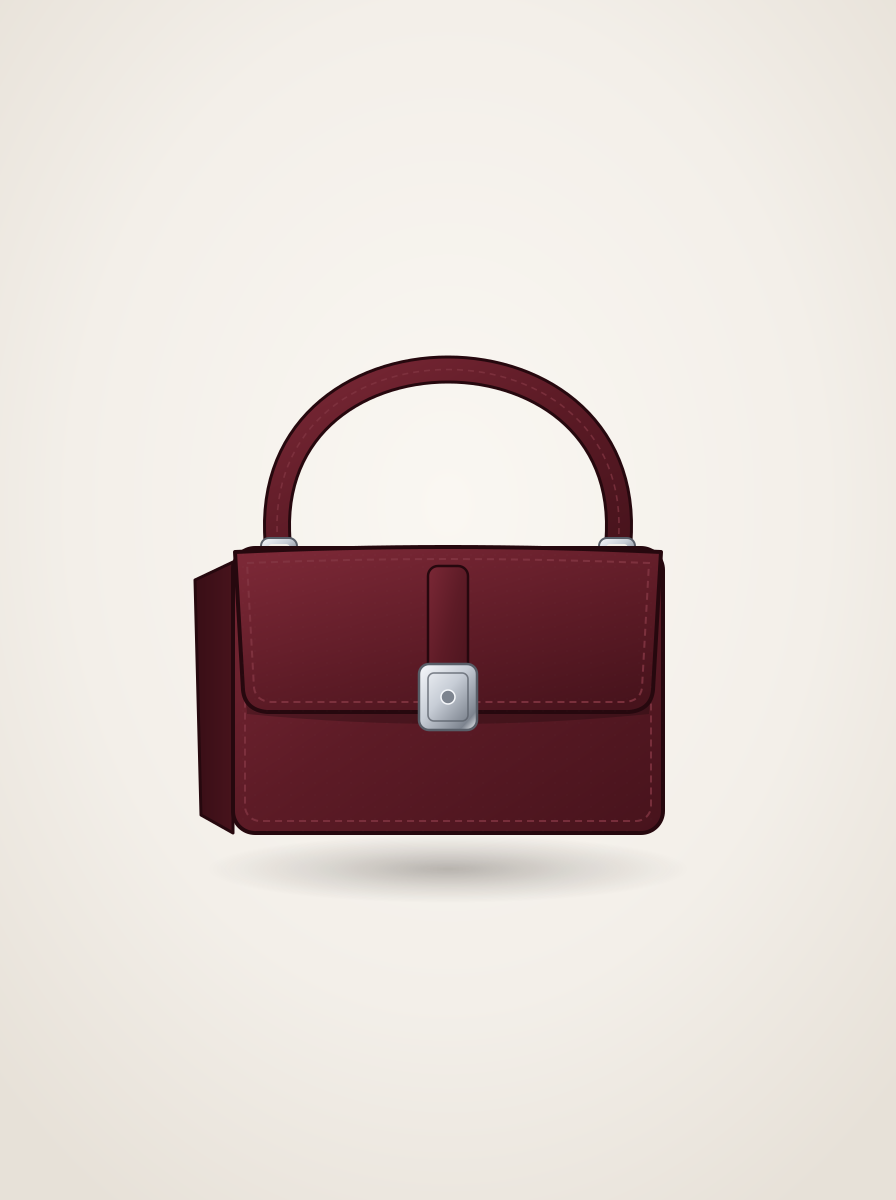
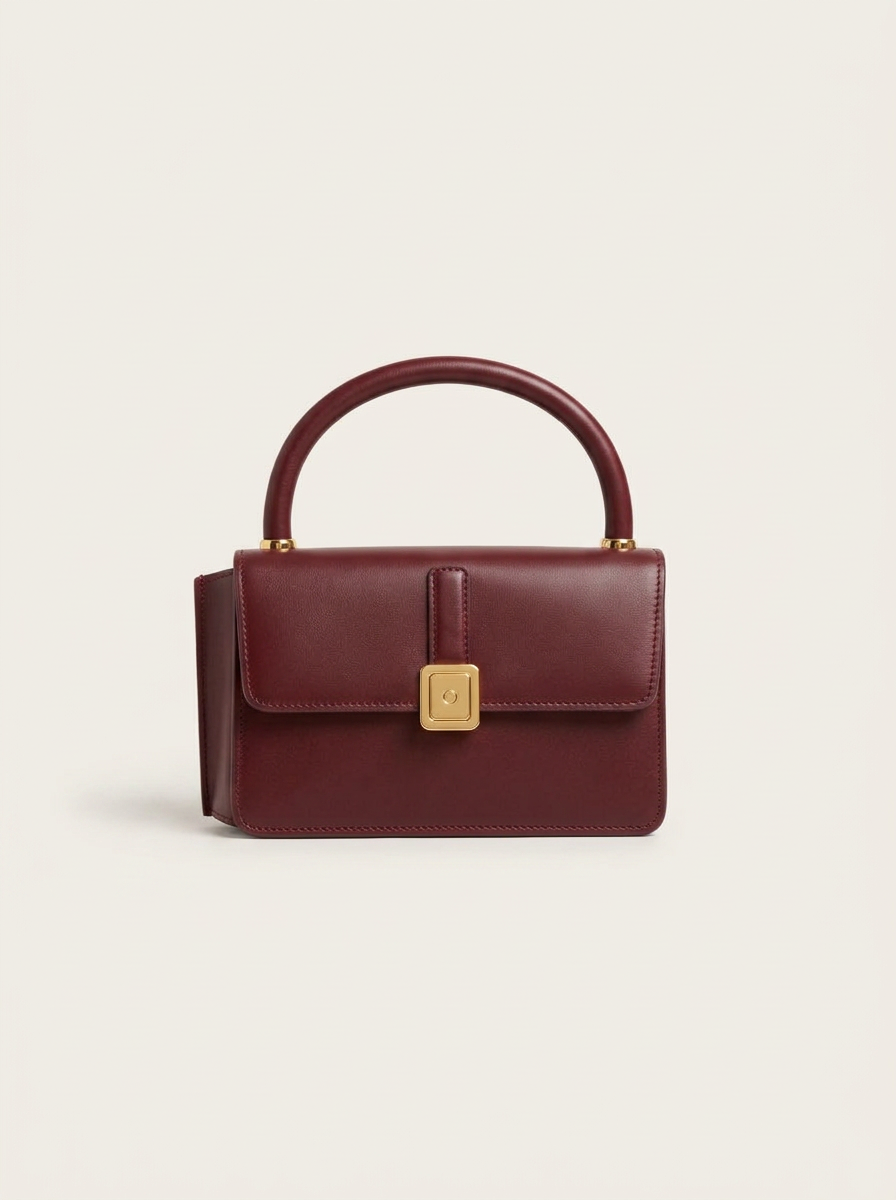
fix(consultation): use photographic handbag as initial design

Changed region(s): [[0.125, 0.2775, 0.75, 0.74]]

diff --git a/tests/consultation-aggregator.test.ts b/tests/consultation-aggregator.test.ts
@@ -19,7 +19,9 @@ import {
 } from "@/lib/agent/consultation-orchestrator";
 import { subscribeConsultationEvents } from "@/lib/server/consultation-events";
 import { createSession } from "@/lib/session/store";
-import { DEFAULT_BAG_DESIGN_STATE } from "@/lib/types";
+import { DEFAULT_BAG_DESIGN_STATE as LIVE_DEFAULT } from "@/lib/types";
+
+const DEFAULT_BAG_DESIGN_STATE = { ...LIVE_DEFAULT, hardwareColor: "silver" };
 import { extractConsultationCandidateDeterministic } from "@/services/gemini/consultation";
 import { buildConsultationJevSignals, evaluateConsultationDeterministic } from "@/services/jev";
 
@@ -114,6 +116,7 @@ test("enqueueConsultationUtterance merges split clauses within debounce window i
 test("irrelevant small talk, audio checks, and retractions resolve to IGNORE with zero suggestions", async () => {
   const session = await createSession(null);
   const started = await startSessionConsultation(session.id, {
+      initialDesignState: { hardwareColor: "silver" },
     meetingUrl: "https://meet.google.com/abc-defg-hij",
     consentConfirmed: true,
   });
@@ -215,6 +218,7 @@ test("full consultation orchestrator lifecycle: start -> ingest -> apply (V2) ->
 
   try {
     const started = await startSessionConsultation(session.id, {
+      initialDesignState: { hardwareColor: "silver" },
       meetingUrl: "https://meet.google.com/abc-defg-hij",
       consentConfirmed: true,
     });

diff --git a/scripts/gen-consultation-seed.ts b/scripts/gen-consultation-seed.ts
@@ -1,29 +1,19 @@
 /**
- * Generates the canonical V1 studio handbag asset for Dressly Live Consultation.
+ * Verifies the checked-in photographic V1 handbag and generates the demo portrait.
  *
  * Run: npm run gen:consultation-seed
  */
-import { mkdir } from "node:fs/promises";
+import { access } from "node:fs/promises";
 import path from "node:path";
-import sharp from "sharp";
 import { ensureDemoCustomerPhoto } from "@/lib/agent/consultation-orchestrator";
-import { renderStudioBagSvg } from "@/lib/catalog/bag-svg";
-import { DEFAULT_BAG_DESIGN_STATE } from "@/lib/types";
 
 const OUT_DIR = path.join(process.cwd(), "public", "catalog");
 const OUT_FILE = path.join(OUT_DIR, "consultation-bag-v1.png");
 
 async function main(): Promise<void> {
-  await mkdir(OUT_DIR, { recursive: true });
-  const svg = renderStudioBagSvg(DEFAULT_BAG_DESIGN_STATE, {
-    versionLabel: "V1 Original",
-  });
-  await sharp(Buffer.from(svg, "utf8"), { density: 200 })
-    .resize(896, 1200, { fit: "cover" })
-    .png({ compressionLevel: 9 })
-    .toFile(OUT_FILE);
+  await access(OUT_FILE);
   const demoPhotoUrl = await ensureDemoCustomerPhoto();
-  console.log("Generated public/catalog/consultation-bag-v1.png (896x1200)");
+  console.log("Verified checked-in photographic handbag public/catalog/consultation-bag-v1.png");
   console.log(`Generated demo customer portrait (${demoPhotoUrl}, 900x1200)`);
 }
 

diff --git a/tests/consultation-reducer.test.ts b/tests/consultation-reducer.test.ts
@@ -51,6 +51,8 @@ test("initConsultation creates V1 Original, logs activity, and places bespoke ba
   assert.equal(con.originalVersionId, v1.id);
   assert.equal(con.currentDesignVersionId, v1.id);
   assert.deepEqual(con.designState, DEFAULT_BAG_DESIGN_STATE);
+  assert.equal(con.designState.hardwareColor, "gold");
+  assert.equal(con.designState.strapType, "top handle");
   assert.equal(con.activity[0]?.text, "Consultation started");
 
   const bagInLook = session.currentLook.accessories.find((a) => a.subcategory === "bag");
@@ -256,6 +258,7 @@ test("addProposedSuggestion deduplicates by fingerprint and actOnProposedSuggest
 test("recordDesignVersion, restoreDesignVersion, attachTryOnToVersion, and endConsultation manage version history", () => {
   let session = createSessionRecord("ses_ver", null);
   session = initConsultation(session, {
+    initialDesignState: { hardwareColor: "silver" },
     meetingUrl: "https://meet.google.com/abc-defg-hij",
     consentConfirmed: true,
   });

diff --git a/components/consultation/ConsultationPanel.tsx b/components/consultation/ConsultationPanel.tsx
@@ -16,7 +16,7 @@ import type {
 } from "@/lib/types";
 
 const FLAGSHIP_SCENARIO_CHIPS = [
-  "I like it, but can we make the hardware gold?",
+  "I like it, but can we make the hardware silver?",
   "That's better. Maybe make it a little smaller.",
   "Could we make the strap longer so I can wear it crossbody?",
   "Can I see how that looks on me?",
@@ -287,7 +287,7 @@ export function ConsultationPanel({
             value={utterance}
             disabled={busy || isEndedOrFailed}
             onChange={(e) => setUtterance(e.target.value)}
-            placeholder="Speak in Meet or type a client request (e.g. 'Make the hardware gold')..."
+            placeholder="Speak in Meet or type a client request (e.g. 'Make the hardware silver')..."
             className="w-full rounded-[3px] border border-chrome/15 bg-night/80 px-3 py-2 text-[13px] text-ink placeholder:text-muted/50 focus:border-accent focus:outline-none disabled:opacity-50"
           />
           <button

diff --git a/tests/consultation-diagnostics.test.ts b/tests/consultation-diagnostics.test.ts
@@ -221,7 +221,7 @@ test("Failure isolation: when bot worker fails (botStatus = FAILED), manual tran
 
   // Manual transcript & suggestion approval still create V2 while botStatus is FAILED
   const turn = await ingestConsultationTranscript(created.id, {
-    text: "I like it, but can we make the hardware gold?",
+    text: "I like it, but can we make the hardware silver?",
     isFinal: true,
     immediate: true,
   });
@@ -232,7 +232,7 @@ test("Failure isolation: when bot worker fails (botStatus = FAILED), manual tran
   });
   assert.ok(applied);
   assert.equal(applied.session.consultation?.versions.length, 2);
-  assert.equal(applied.session.consultation?.versions[1]?.label, "V2 Gold hardware");
+  assert.equal(applied.session.consultation?.versions[1]?.label, "V2 Silver hardware");
 
   // VTO diagnostic still works on V2 while bot is failed
   const vtoDiag = await invokeDiagnostic(created.id, "test_youcam_vto");

diff --git a/lib/types.ts b/lib/types.ts
@@ -266,17 +266,17 @@ export interface BagDesignState {
 
 export const DEFAULT_BAG_DESIGN_STATE: BagDesignState = {
   category: "bag",
-  name: "Atelier Structured Shoulder Bag",
-  silhouette: "structured rectangular shoulder bag",
+  name: "Atelier Structured Top-Handle Bag",
+  silhouette: "structured rectangular top-handle bag",
   size: "medium",
   primaryColor: "burgundy",
   secondaryColor: "tonal burgundy edge paint",
   material: "full-grain calfskin leather",
   texture: "smooth",
-  hardwareColor: "silver",
+  hardwareColor: "gold",
   hardwareStyle: "minimal geometric clasp",
-  strapType: "shoulder",
-  strapLength: "standard shoulder drop",
+  strapType: "top handle",
+  strapLength: "short top handle",
   closure: "front flap with magnetic clasp",
   structure: "rigid box-gusset construction",
   pattern: "solid",

diff --git a/tests/consultation-orchestrator.test.ts b/tests/consultation-orchestrator.test.ts
@@ -25,6 +25,7 @@ test("Flagship 4-step handbag consultation scenario (V1 -> V2 -> V3 -> V4 -> You
   try {
     // 1. Start consultation: V1 Original (medium burgundy leather shoulder bag, silver hardware, shoulder strap)
     const started = await startSessionConsultation(created.id, {
+      initialDesignState: { hardwareColor: "silver", strapType: "shoulder", strapLength: "standard shoulder drop" },
       meetingUrl: "https://meet.google.com/abc-defg-hij",
       consentConfirmed: true,
     });

diff --git a/tests/consultation-prompt.test.ts b/tests/consultation-prompt.test.ts
@@ -12,10 +12,12 @@ import {
 } from "@/lib/session/reducer";
 import { persist } from "@/lib/session/store";
 import {
-  DEFAULT_BAG_DESIGN_STATE,
+  DEFAULT_BAG_DESIGN_STATE as LIVE_DEFAULT,
   DESIGN_FIELD_KEYS,
   type DesignFieldDiff,
 } from "@/lib/types";
+
+const DEFAULT_BAG_DESIGN_STATE = { ...LIVE_DEFAULT, hardwareColor: "silver", strapType: "shoulder", strapLength: "standard shoulder drop" };
 
 function splitPromptSections(promptText: string): {
   currentProduct: string;

diff --git a/app/api/sessions/[id]/consultation/diagnostics/route.ts b/app/api/sessions/[id]/consultation/diagnostics/route.ts
@@ -334,7 +334,7 @@ export async function POST(request: Request, context: Context) {
 
       case "simulate_transcript": {
         const text =
-          body.text?.trim() || "I like it, but can we make the hardware gold?";
+          body.text?.trim() || "I like it, but can we make the hardware silver?";
         const turn = await ingestConsultationTranscript(id, {
           text,
           isFinal: true,

diff --git a/README.md b/README.md
@@ -115,7 +115,7 @@ transition, and light the scene.
 | `npm run typecheck` | `tsc --noEmit` |
 | `npm test` | Deterministic behaviour tests (`node --test`) |
 | `npm run gen:catalog` | Regenerate `public/catalog/` (35 flat-lay renders) |
-| `npm run gen:consultation-seed` | Regenerate V1 handbag (`public/catalog/consultation-bag-v1.png`) and demo portrait |
+| `npm run gen:consultation-seed` | Verify the checked-in photographic V1 handbag (`public/catalog/consultation-bag-v1.png`) and generate the demo portrait |
 | `npm run bot:worker` | Start isolated Playwright + Chromium Google Meet bot worker (`127.0.0.1:4100`) |
 | `npm run bot:login` | Launch headed Chromium against `data/bot-profile` for one-time Google account sign-in |
 | `npm run bot:join -- https://meet.google.com/xxx-xxxx-xxx` | Standalone live Google Meet join + 16 kHz audio/Gemini smoke test |
@@ -190,7 +190,7 @@ All meeting audio capture sits behind the `ConsultationAudioSource` interface (`
 | `RUNWAY_IMAGE_MODEL` | `nano_banana_2.1` | Runway `POST /v1/text_to_image` model for iterative product revisions |
 | `RUNWAY_IMAGE_RATIO` | `896:1200` | 3:4 studio portrait aspect ratio (`1792:2400` for high-res finalize) |
 | `YOUCAM_API_KEY` | — | YouCam S2S v2.0 Virtual Try-On API key |
-| `DRESSLY_CONSULTATION_DEMO_MODE` | `false` | Preloads V1 burgundy leather shoulder bag & demo customer portrait while keeping real AI providers active |
+| `DRESSLY_CONSULTATION_DEMO_MODE` | `false` | Preloads V1 burgundy leather top-handle bag & demo customer portrait while keeping real AI providers active |
 | `CONSULTATION_AUTO_APPLY_THRESHOLD` | `0.90` | Minimum confidence (`0.5..1.0`) required when `AUTO APPLY ●` is enabled |
 | `MEETING_BOT_PORT` | `4100` | Port for the standalone Playwright meeting-bot worker |
 | `MEETING_BOT_URL` | `http://127.0.0.1:4100` | Internal worker URL called by Next.js |
@@ -230,9 +230,9 @@ bottom of the consultation panel to test each subsystem independently:
 6. **`[ Test Runway Revision ]`** — Triggers Runway `nano_banana_2.1` with `@latest_design` and `@original_design` reference images.
 7. **`[ Test YouCam VTO ]`** — Triggers YouCam Virtual Try-On for the active handbag version (automatically seeding the demo customer portrait if no photo was uploaded).
 
-To run the **Flagship 4-Step Handbag Consultation Scenario** (`V1 Original` burgundy shoulder bag with silver hardware):
+To run the **Flagship 4-Step Handbag Consultation Scenario** (`V1 Original` burgundy top-handle bag with gold hardware):
 
-1. *"I like it, but can we make the hardware gold?"* → Approve suggestion → **`V2 Gold hardware`**
+1. *"I like it, but can we make the hardware silver?"* → Approve suggestion → **`V2 Silver hardware`**
 2. *"That's better. Maybe make it a little smaller."* → Approve suggestion → **`V3 Smaller silhouette`** (anchored to both `@latest_design` and `@original_design`)
 3. *"Could we make the strap longer so I can wear it crossbody?"* → Approve suggestion → **`V4 Crossbody strap`**
 4. *"Can I see how that looks on me?"* (or click **`Try this version`**) → **YouCam Virtual Try-On**

diff --git a/odd/tasks/live-consultation.md b/odd/tasks/live-consultation.md
@@ -29,7 +29,7 @@ Implement **Dressly Live Consultation** across 4 structured phases (`docs/LIVE_C
 
 ### Phase 6 — Photorealistic initial image and Runway completion
 
-- [ ] **C6.1** Restore polling for voice-started Runway generation, prevent duplicate polling, and select the completed image in the UI. Route: delegated (mapping and writer triggers: multiple client and test files). Acceptance: started events initiate exactly one poll per job, manual and voice paths both display the completed version, error handling remains intact. Checks: targeted behavior tests, `npm test`, `npm run typecheck`; production build if feasible. TDD off, inherited configuration above. RDD disabled/unmanaged. Forecast 150–300 authored lines; user previously selected `feature-branch-chain`; no push or PR authorized. Mirror pending: Engram unavailable. Baseline `63e0479`.
+- [x] **C6.1** Restore polling for voice-started Runway generation, prevent duplicate polling, and select the completed image in the UI. Route: delegated (mapping and writer triggers: multiple client and test files). Commit `80ba0469e3dc2420728d6e2f15c823a15075e5ce`; focused tests 3/3, full `npm test` 77 pass/0 fail/3 opt-in skips, `npm run typecheck` passed. TDD off; RDD disabled/unmanaged. The reported session was in auto-apply generation without a poll. Events missed during an SSE disconnection remain a limitation; real Runway end-to-end unverified because remote execution was not authorized. Build pending. User previously selected `feature-branch-chain`; no push or PR authorized. Mirror pending: Engram unavailable. Baseline `63e0479`.
 - [ ] **C6.2** Replace the cartoon seed with the supplied photographic image and align default design and regeneration behavior with the actual image. Route: delegated (seed asset, generator, state and related tests). Acceptance: new consultations display the supplied realistic handbag, state matches its gold hardware and top handle, and regeneration cannot silently revert to cartoon. Checks: targeted tests, `npm test`, `npm run typecheck`. TDD off; RDD disabled/unmanaged. Forecast 100–250 authored lines, generated/binary asset excluded; same delivery strategy and baseline. Mirror pending: Engram unavailable.
 
 ### Phase 1 — Domain State, AI Decision Engine (Gemini + JEV) & Human-in-the-Loop UI
